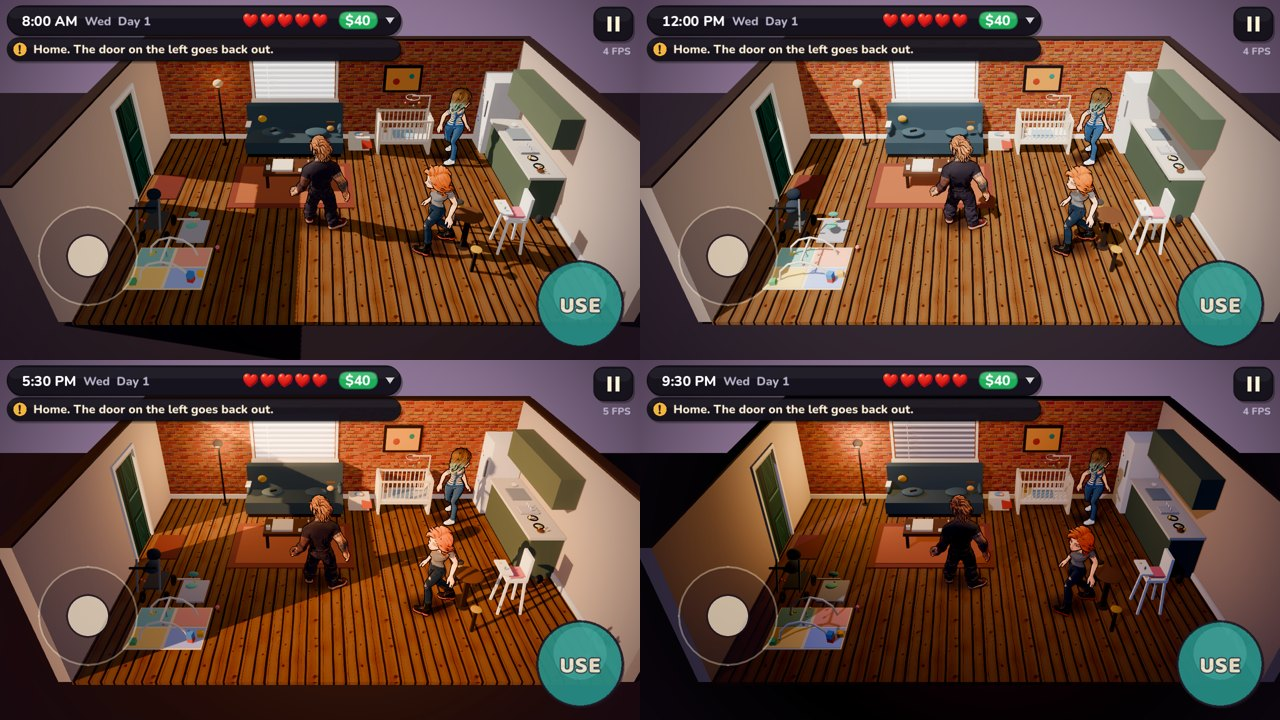
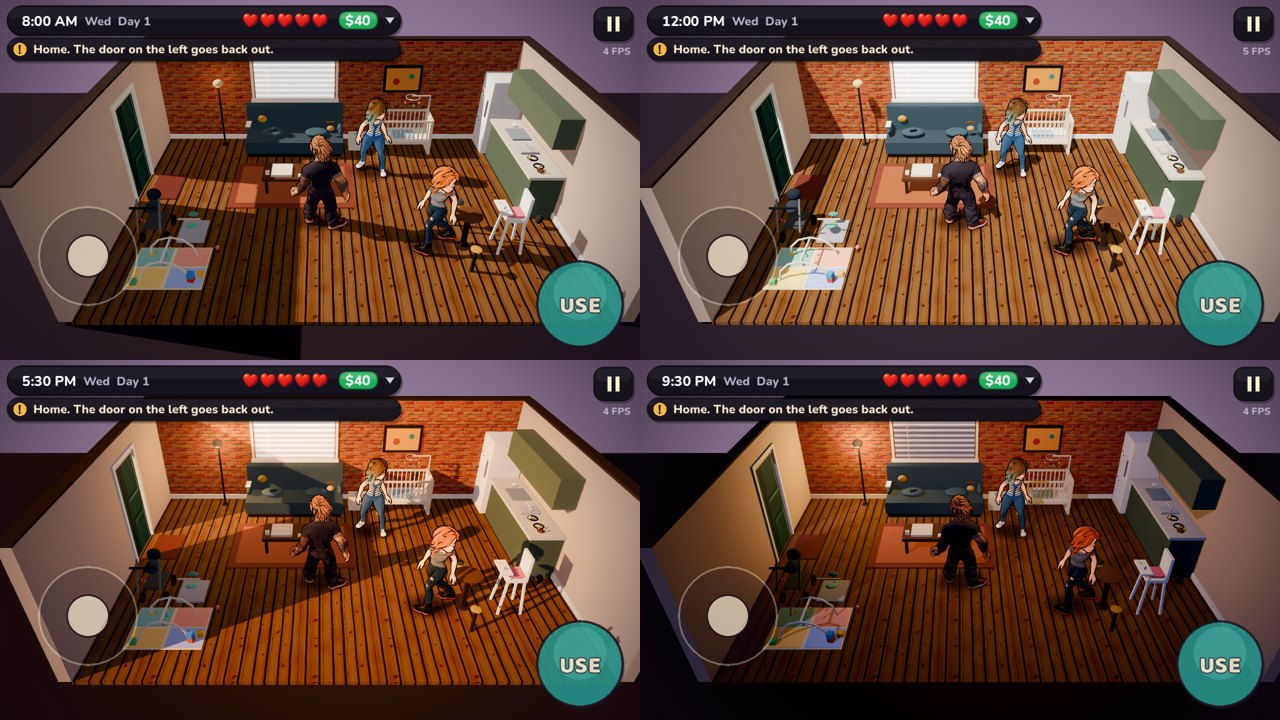
Porch 3D home: Madison off the kitchen path, coffee table forward; smoke checks every USE spot has room for Duff (fresh-eyes block)
Claude-Session: https://claude.ai/code/session_01V3sbxL1VHrbJsUbckWWsbg

diff --git a/spike_full3d/README.md b/spike_full3d/README.md
@@ -186,7 +186,7 @@ repo; their photos never go here. Not in a scene yet (phase 4: home and the bloc
 - USE at home (Duff's pick): indoors the fight buttons hide and the big button becomes USE, named for
   what's near: sit (couch: half an hour passes, +1 heart), snack (fridge: +2 hearts), peek (crib), blinds
   (window darkens), squeak (duck on the play mat). Spots live in `zones.uses`; `porch.gd use()` runs them.
-- Who's home: Madison (by the crib) and Brittany (at the table) idle on their spots, solid to walk into
+- Who's home: Madison (by the crib) and Brittany (by the table) idle on their spots, solid to walk into
   (`zone_apartment.gd` FAMILY). No lines yet: Duff approves every line first. Render `29_home_family.jpg`.
 - Home sound: the main game's `mus_edm_home` plus `audio/home_bed.ogg` (fridge hum, room tone, a TV through
   the wall), made from numbers by `tools/gen_home_bed.py`, so it's ours. The porch gets its street theme back.
